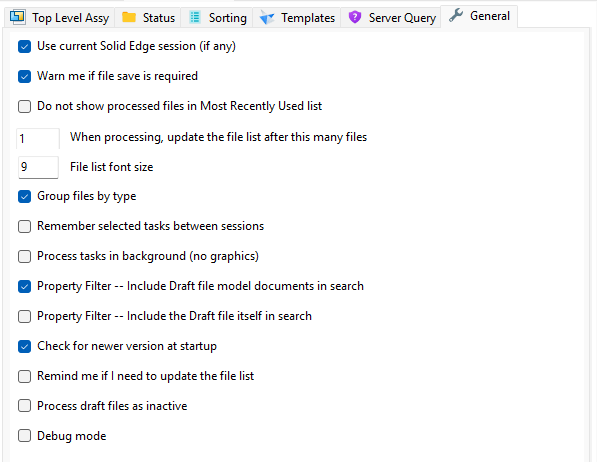
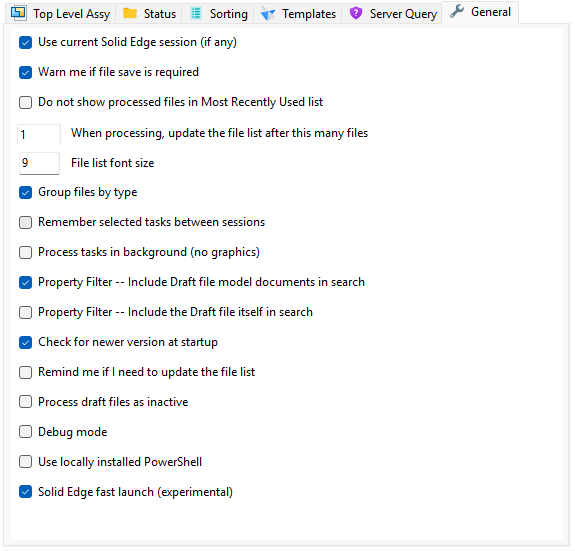
Solid Edge fast launch

Changed region(s): [[0.0, 0.0, 0.9165, 0.3333], [0.0296, 0.2727, 0.6504, 0.6364], [0.0296, 0.6667, 0.5322, 0.9697]]

diff --git a/HelpTopics.md b/HelpTopics.md
@@ -703,7 +703,10 @@ This is to tell the user that the file list is not automatically populated when 
 This option is meant to speed up processing of files that are left unchanged by the command.  Only `Save drawing as` and `Print` are compatible; other commands will trigger an error.  The program tries to revert back to the previous setting once processing is complete.  However, in case of a program malfunction, it may not be able to do so.  You can manually reset the option by starting Solid Edge manually, then clicking the `Browse` button.  The checkbox is located toward the bottom of the form.  You have to select a draft file to make the checkbox active.
 - `Debug mode`  
 Debug mode is meant to help with troubleshooting user's site-specific issues.  It is currently limited, but will be expanded as needed in the future.
- 
+- `Use locally installed PowerShell`  
+`Property filters`, `Expressions` and `Code snippets` all create text files that must be executed in a `VB.Net` interpreter.  Previously Housekeeper used PowerShell for that.  An internal `dotnet` library is now used by default.  This option switches execution back to the previous method.
+- `Solid Edge fast launch (experimental)`  
+If Solid Edge is not running when file processing begins, Housekeeper starts it.  There are two ways of doing so.  One is simple for the programmer, but more work for the OS; the other is the opposite.  This option enables the latter.  It is presented as an option so you can toggle back to Housekeeper's original behavior in case it doesn't work for you.
 </details>
 
 </details>
@@ -1412,11 +1415,6 @@ This command may not work with PDF printers. Try the Save As PDF command instead
 </details>
 
 <!-- End -->
-
-
-
-
-
 
 <details open><summary><h2 style="margin:0px; display:inline-block"><img src="My%20Project/media/spacer.png"><img src="Resources/icons8_help_16.png"><img src="My%20Project/media/spacer.png">KNOWN ISSUES</h2></summary>
 

diff --git a/README.md b/README.md
@@ -703,7 +703,10 @@ This is to tell the user that the file list is not automatically populated when 
 This option is meant to speed up processing of files that are left unchanged by the command.  Only `Save drawing as` and `Print` are compatible; other commands will trigger an error.  The program tries to revert back to the previous setting once processing is complete.  However, in case of a program malfunction, it may not be able to do so.  You can manually reset the option by starting Solid Edge manually, then clicking the `Browse` button.  The checkbox is located toward the bottom of the form.  You have to select a draft file to make the checkbox active.
 - `Debug mode`  
 Debug mode is meant to help with troubleshooting user's site-specific issues.  It is currently limited, but will be expanded as needed in the future.
- 
+- `Use locally installed PowerShell`  
+`Property filters`, `Expressions` and `Code snippets` all create text files that must be executed in a `VB.Net` interpreter.  Previously Housekeeper used PowerShell for that.  An internal `dotnet` library is now used by default.  This option switches execution back to the previous method.
+- `Solid Edge fast launch (experimental)`  
+If Solid Edge is not running when file processing begins, Housekeeper starts it.  There are two ways of doing so.  One is simple for the programmer, but more work for the OS; the other is the opposite.  This option enables the latter.  It is presented as an option so you can toggle back to Housekeeper's original behavior in case it doesn't work for you.
 </details>
 
 </details>
@@ -1412,11 +1415,6 @@ This command may not work with PDF printers. Try the Save As PDF command instead
 </details>
 
 <!-- End -->
-
-
-
-
-
 
 <details><summary><h2 style="margin:0px; display:inline-block"><img src="My%20Project/media/spacer.png"><img src="Resources/icons8_help_16.png"><img src="My%20Project/media/spacer.png">KNOWN ISSUES</h2></summary>
 

diff --git a/release_notes.md b/release_notes.md
@@ -123,10 +123,11 @@ See the [<ins>**Run External Program Help Topic**</ins>](https://github.com/rmca
 - Fixed an issue in `Update Physical Properties` where a check of the mass in the variable table was not accounting for localized names.  (Thank you **@Stefano-VLN!**)
 - Fixed an issue with top-level assembly search where non-existent draft files were being added to the list.  (Thank you **@Nick_Mokrytskyi!**)
 - Fixed a regression where `OLEMessageFilter` was no longer being activated at Task launch.  (Thank you **@PBurkeADS!**)
+- Added an option, `Solid Edge fast launch`, that uses a new technique to start SE when file processing begins.  It is quite a bit faster than the previous method and worth a try, but still considered experimental for now.  Enable it on the **Configuration Tab -- General Page.**
 - Fixed an issue where users running preview code were not notified when the finalized version was released.
 - Changed the formatting of Task sub-options to better show to which main option they apply.
 - Added missing help buttons to several dialogs and toolbars.
-- Added logging of system error messages where applicable.
+- To aid in troubleshooting, added logging of system-generated error messages where applicable.
 
 
 ## V2026.1